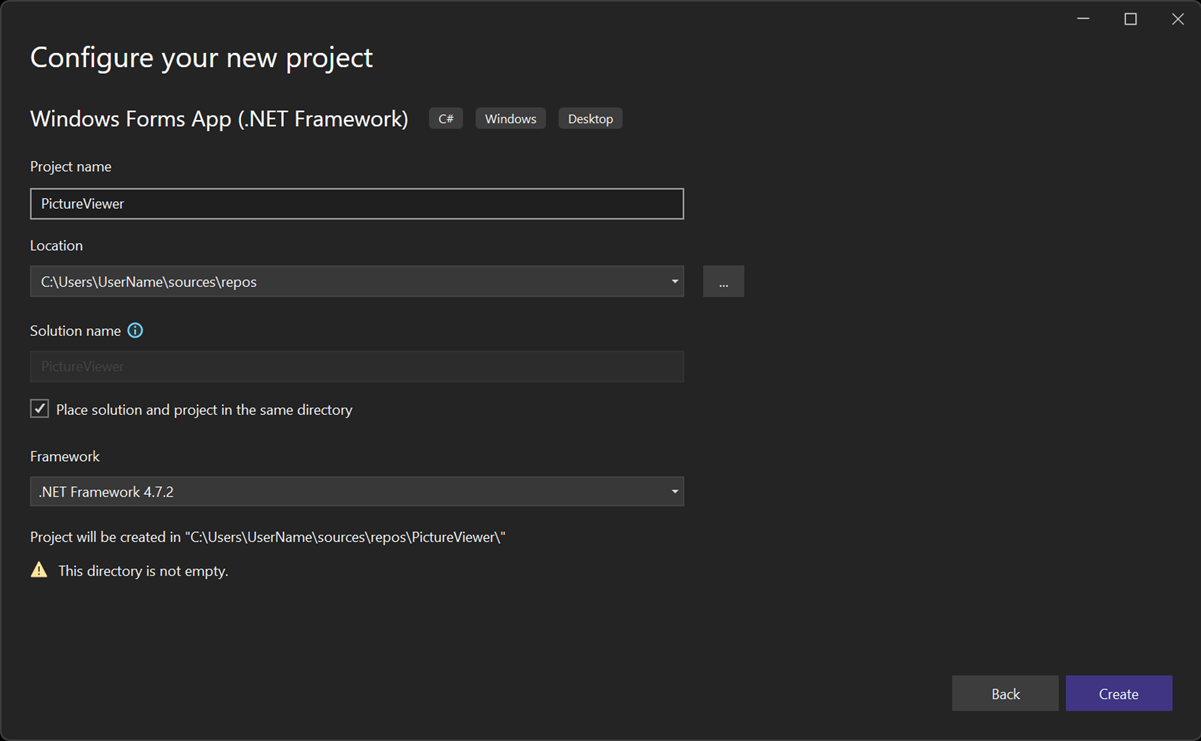
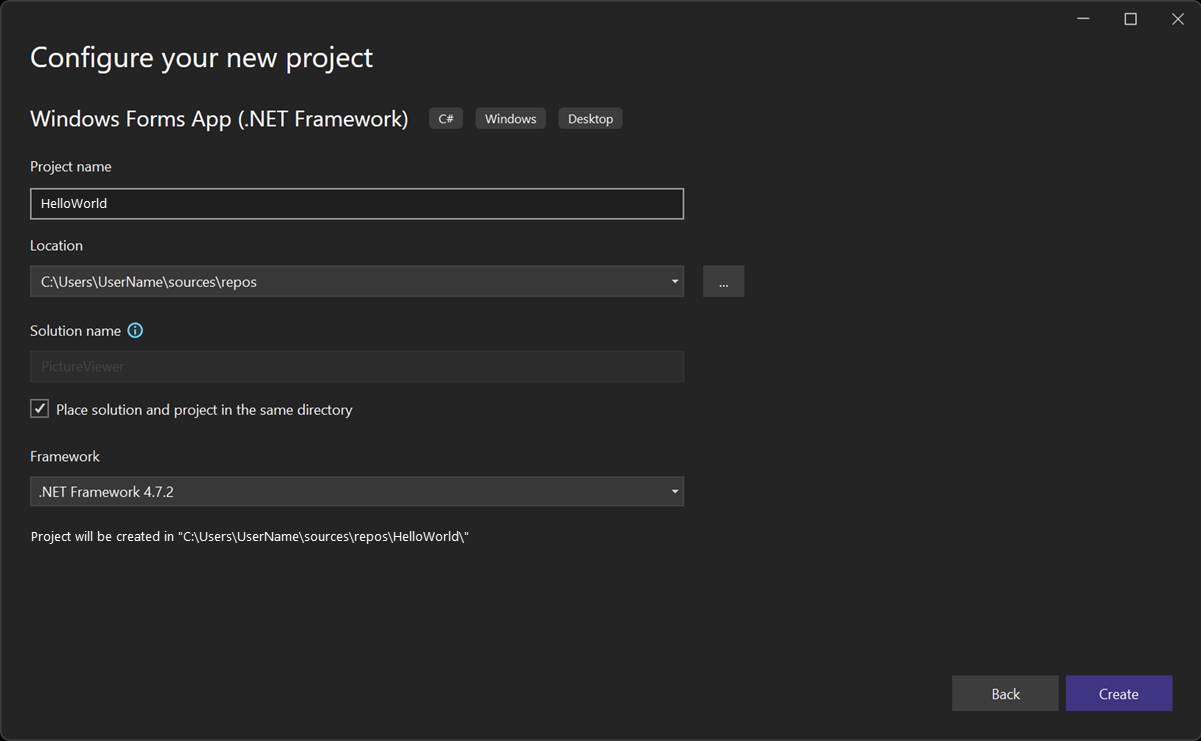
Implement monikers.

Changed region(s): [[0.0308, 0.7139, 0.4313, 0.776], [0.0308, 0.2483, 0.0924, 0.2794]]

diff --git a/docs/get-started/includes/ide-overview.md b/docs/get-started/includes/ide-overview.md
@@ -149,7 +149,84 @@ When you open Visual Studio for the first time, you can [sign in](../../ide/sign
 
 Dive in and create a simple program.
 
-::: moniker range=">=vs-2022"
+
+::: moniker range=">=visualstudio"
+
+1. Start Visual Studio. The start window appears with options for cloning a repo, opening a recent project, or creating a new project.
+
+1. Choose **Create a new project**.
+
+   :::image type="content" source="../media/visualstudio/create-new-project.png" alt-text="Screenshot of the Visual Studio start menu with Create a new project selected.":::
+
+   The **Create a new project** window opens and shows several project *templates*. A template contains the basic files and settings required for a given project type.
+
+1. To find a template, you can type or enter keywords in the search box. The list of available templates filters based on the keywords you enter. You can further filter the template results by choosing **C#** from the **All languages** dropdown list, **Windows** from the **All platforms** list, and **Console** from the **All project types** list.
+
+    Select the **Console App** template, and then select **Next**.
+
+   :::image type="content" source="../media/visualstudio/start-window-create-new-project.png" alt-text="Screenshot of the Create a new project window with Console Application selected.":::
+
+1. In the **Configure your new project** window, enter *HelloWorld* in the **Project name** box. Optionally, change the project directory location from the default location of *C:\\Users\\\<name>\\source\\repos*, and then select **Next**.
+
+   :::image type="content" source="../media/visualstudio/configure-new-project.png" alt-text="Screenshot of the Configure your new project window with the project name HelloWorld entered.":::
+
+1. In the **Additional information** window, verify that **.NET 10.0** appears in the **Framework** menu, and then select **Create**.
+
+   :::image type="content" source="../media/visualstudio/create-project-additional-info.png" alt-text="Screenshot of the Additional information dialog showing .NET 10.0 selected as the target framework for the new project in Visual Studio." lightbox="../media/visualstudio/create-project-additional-info.png" border="false":::
+
+   Visual Studio creates the project. The program is a simple "Hello World" application that calls the <xref:System.Console.WriteLine?displayProperty=nameWithType> method to display the string **Hello, World!** in a console window.
+
+   The project files appear on the right side of the Visual Studio IDE, in a window called the **Solution Explorer**. In the **Solution Explorer** window, select the **Program.cs** file. The C# code for your app opens in the central editor window, which takes up most of the space.
+
+   :::image type="content" source="../media/vs-2022/overview-ide-console-app.png" alt-text="Screenshot that shows the Visual Studio IDE with the Program.cs code in the editor.":::
+
+   The code is automatically colorized to indicate different parts, such as keywords and types. Line numbers help you locate code.
+
+   Small, vertical dashed lines in the code indicate which braces match one another. You can also choose small, boxed minus or plus signs to collapse or expand blocks of code. This code outlining feature lets you hide code you don't need to see, helping to minimize onscreen clutter.
+
+   :::image type="content" source="../media/vs-2022/overview-ide-console-app-red-boxes.png" alt-text="Screenshot that shows the Visual Studio IDE with red boxes.":::
+
+   Many other menus and tool windows are available.
+
+1. Start the app by choosing **Debug** > **Start Without Debugging** from the Visual Studio top menu. You can also press **Ctrl**+**F5**.
+
+   :::image type="content" source="../media/vs-2022/overview-start-without-debugging.png" alt-text="Screenshot that shows the Debug > Start without Debugging menu item.":::
+
+   Visual Studio builds the app, and a console window opens with the message **Hello, World!**. You now have a running app!
+
+   :::image type="content" source="../media/vs-2022/overview-console-window.png" alt-text="Screenshot of the Debug Console window showing the output Hello, World! and Press any key to close this window.":::
+
+1. To close the console window, press any key.
+
+1. Add some more code to the app. Add the following C# code before the line that says `Console.WriteLine("Hello World!");`:
+
+   ```csharp
+   Console.WriteLine("\nWhat is your name?");
+   var name = Console.ReadLine();
+   ```
+
+   This code displays **What is your name?** in the console window, and then waits until the user enters some text.
+
+1. Change the line that says `Console.WriteLine("Hello World!");` to the following line:
+
+   ```csharp
+   Console.WriteLine($"\nHello {name}!");
+   ```
+
+1. Run the app again by selecting **Debug** > **Start Without Debugging** or pressing **Ctrl**+**F5**.
+
+   Visual Studio rebuilds the app, and a console window opens and prompts you for your name.
+
+1. Type your name in the console window and press **Enter**.
+
+   :::image type="content" source="../media/vs-2022/overview-console-input.png" alt-text="Screenshot of the Debug Console window showing the prompt for a name, the input, and the output Hello Georgette!" lightbox="../media/vs-2022/overview-console-input.png" border="false":::
+
+1. Press any key to close the console window and stop the running program.
+
+::: moniker-end
+
+
+::: moniker range="vs-2022"
 
 1. Start Visual Studio. The start window appears with options for cloning a repo, opening a recent project, or creating a new project.
 
@@ -169,7 +246,7 @@ Dive in and create a simple program.
 
    :::image type="content" source="../media/vs-2022/configure-new-project.png" alt-text="Screenshot of the Configure your new project window with the project name HelloWorld entered.":::
 
-1. In the **Additional information** window, verify that **.NET 10.0** appears in the **Framework** menu, and then select **Create**.
+1. In the **Additional information** window, verify that **.NET 8.0** appears in the **Framework** menu, and then select **Create**.
 
    :::image type="content" source="../media/vs-2022/create-project-additional-info.png" alt-text="Screenshot of the Additional information dialog showing .NET 8.0 selected as the target framework for the new project in Visual Studio." lightbox="../media/vs-2022/create-project-additional-info.png" border="false":::
 
